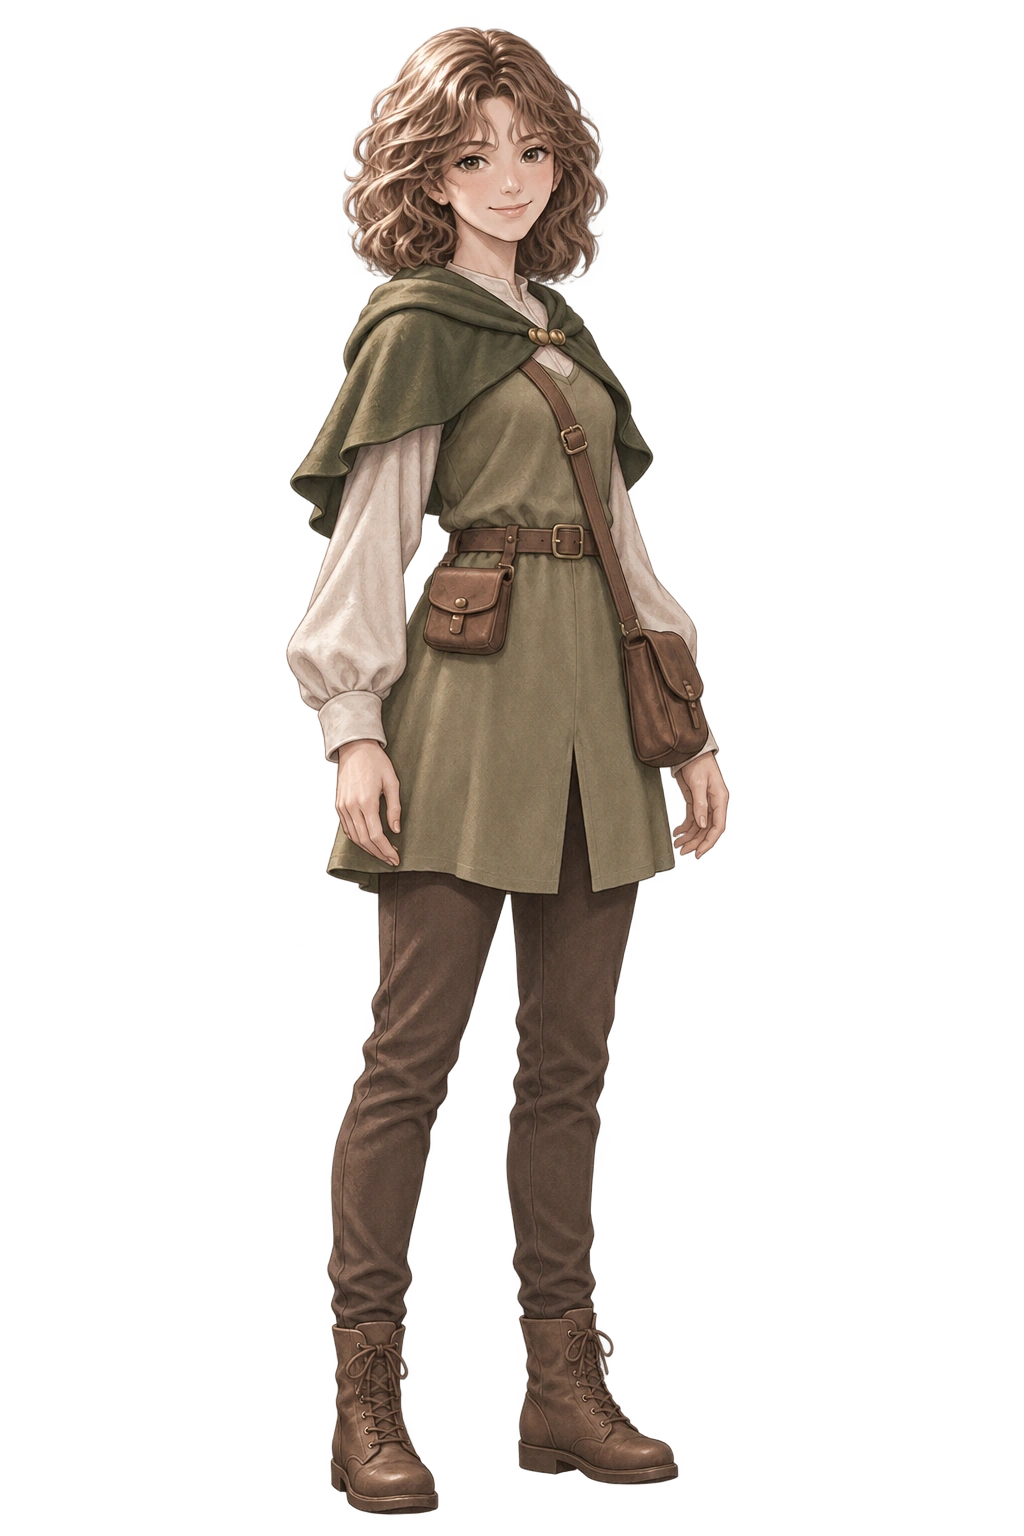
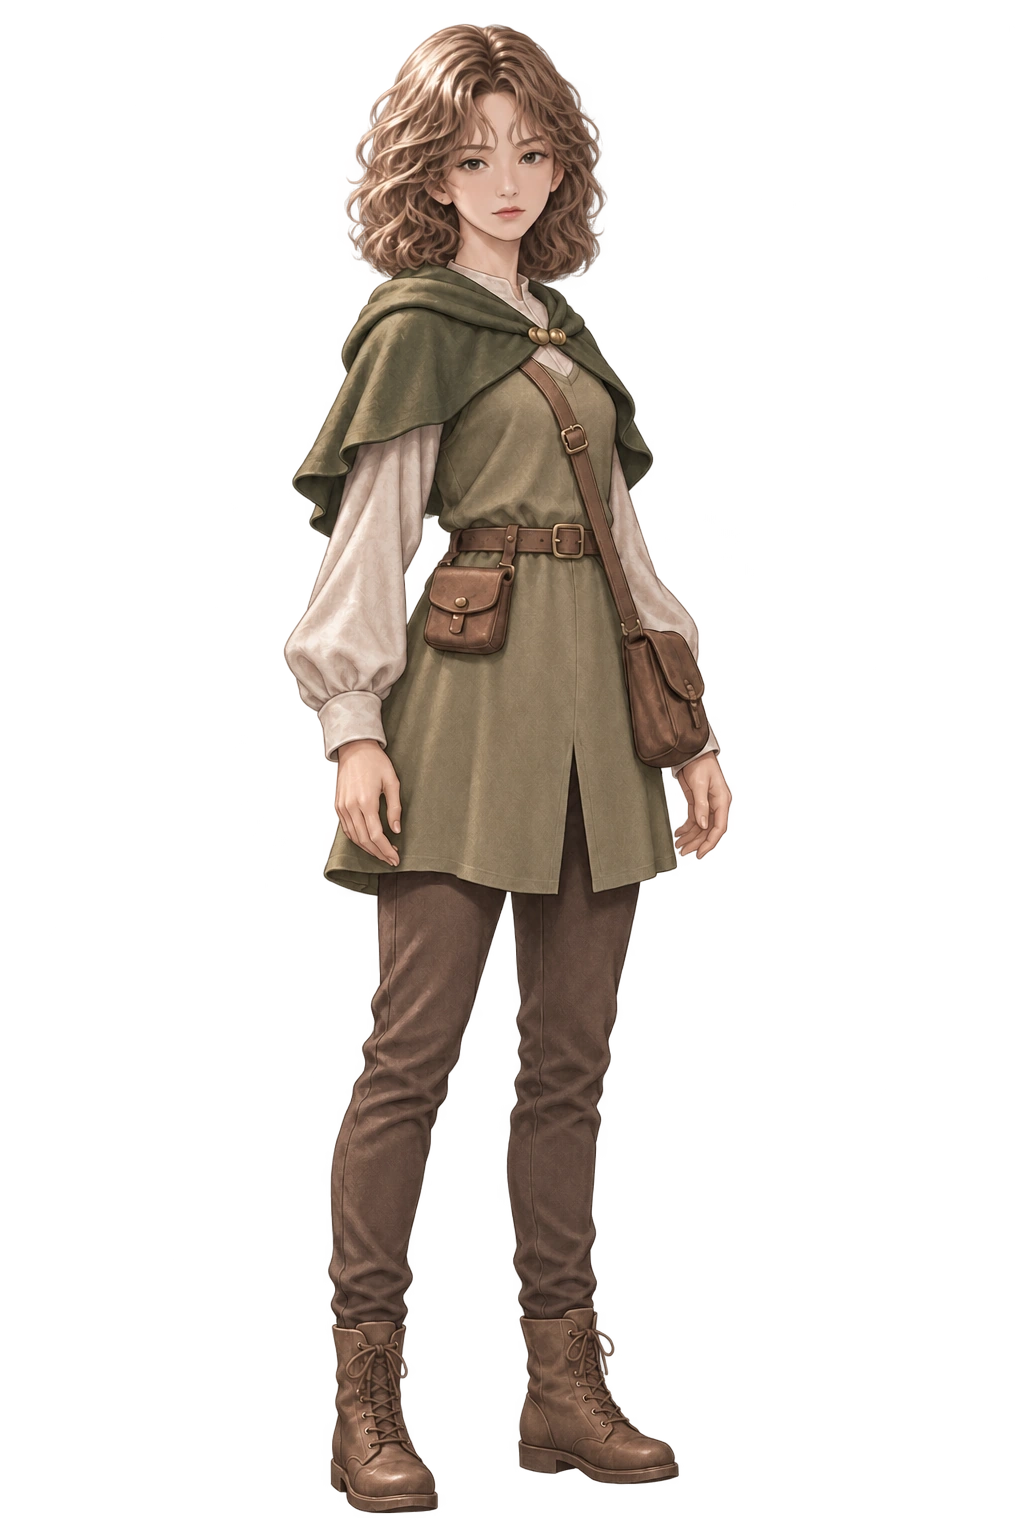
Refine Cha Yeogyeong portrait and fantasy casualwear

diff --git a/fantasy-rpg/desktop/ui/characters/content.js b/fantasy-rpg/desktop/ui/characters/content.js
@@ -628,7 +628,7 @@ function appearance(id,{look='default',pose='default'}={}){const r=get(id);retur
 function displayName(state,id){const r=get(id);if(!r)return null;const introduced=state?.knownIdentities?.[id]===true||(state?.turns||[]).some(t=>(t.panels||[]).some(p=>p.speaker===id&&String(p.text||'').includes(r.name)));return introduced?r.name:r.unknownName;}
 
 const legacyCasual={
-  yeogyeong:fullImage('yeogyeong-casual.webp',720,1080),
+  yeogyeong:fullImage('yeogyeong-city-casual.webp',1024,1536),
   dogyeom:fullImage('dogyeom-casual.webp',720,1080),
   seoha:fullImage('seoha-casual.webp',720,1080),
   'dogyeom-childhood-friend':fullImage('soyun-casual.webp',720,1080),

diff --git a/fantasy-rpg/desktop/README.md b/fantasy-rpg/desktop/README.md
@@ -1,6 +1,6 @@
 <!-- release-summary:start -->
-# v0.42.130 검은솔 수림 전투 원화 시범 적용
-검은솔 수림의 텍스트 전투에 저채도 숲 공터와 김태이·차여경 대기 자세를 적용했습니다. Windows 실기기 검증은 별도입니다.
+# v0.42.131 차여경 전투 대기 얼굴과 이세계 일상복
+검은솔 수림 전투에서 차여경의 대기 얼굴을 대화 원화 기준으로 수정하고 캐릭터 외형 메뉴에 새 이세계 일상복을 적용했습니다. Windows 실기기 검증은 별도입니다.
 <!-- release-summary:end -->
 
 # v0.42.111 · 칼리스트라와 벨카리온 설정 보완
